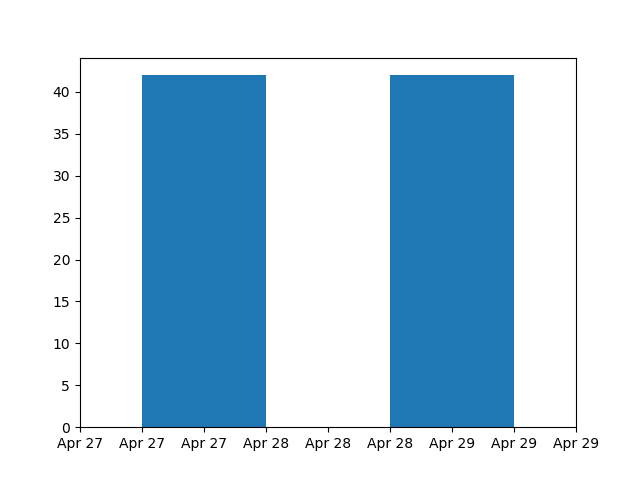
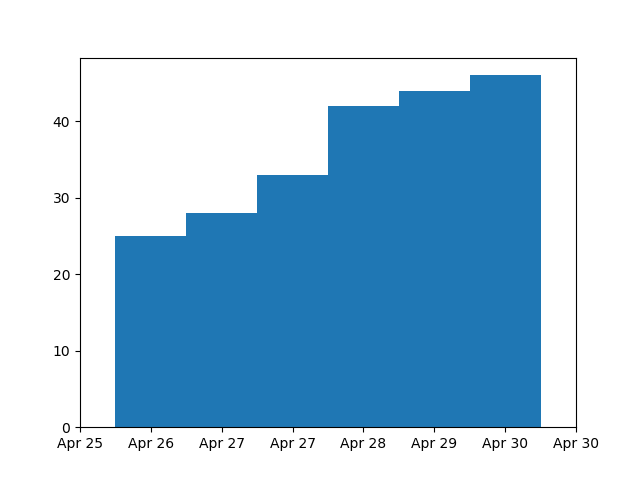
added sample data creation, fixed trackable delete

diff --git a/database/dbtest/test.py b/database/dbtest/test.py
@@ -1,6 +1,10 @@
 from .trackable_test import run_all_trackable_tests
 from database.users import _get_users_col
 from database.utils import DatabaseConsts as dc
+from database.trackable import drop_trackable_collection
+from datetime import datetime, timedelta, date
+from database.users import get_user_wrapper
+from .dbprint import _print_collection
 
 
 def test_all():
@@ -13,17 +17,44 @@ def drop_users():
 def drop_db():
     dc.CLIENT.drop_database(dc.DATABASE_NAME)
 
-def put_sample_data(user_id, trackable):
 
-    start_date = datetime.utcnow() - timedelta(days=7)
+def pretend_to_remind(bot):
+    demo_user_id = 1
+
+    bot.send_message(chat_id=demo_user_id, text='Hey! It\'s time to tell me how you did today')
+    pass
+
+
+def put_sample_data(user_id, trackable):
+    '''
+    creates new trackable for user, 
+    fills it with sample data for last week
+
+    any prev data for this trackable is removed 
+    '''
+
+    user = get_user_wrapper(user_id)
+    
+    drop_trackable_collection(user.name, trackable)
+
+    curr_date = datetime.utcnow() - timedelta(days=7)
 
     vals = [35, 25, 28, 33, 42, 44, 46]
+    
+    user.register_trackable(trackable)
+    tr = user.get_trackable_wrapper(trackable)
 
-    for i in range(8):
-        
-        get_use
+    from database.utils import DatabaseConsts as dc
+    from database.utils import coll
 
-        start_date += timedelta(days=1)
+
+    for i in range(7):
+        tr.add_user_entry(curr_date, vals[i])
+
+        curr_date += timedelta(days=1)
+
+
+    
 
 
 

diff --git a/database/trackable.py b/database/trackable.py
@@ -3,8 +3,11 @@ import pymongo
 from pymongo.collection import Collection 
 from datetime import datetime
 
-def drop_trackable_collection(username, trackable_name):
-    coll(_trackable_coll_name(username, trackable_name)).drop()
+def drop_trackable_collection(id, trackable):
+    '''
+    username is not id, it is the human-readable telegram username!
+    '''
+    coll(_trackable_coll_name(id, trackable)).drop()
 
 class TrackableDbWrapper:
 
@@ -132,12 +135,12 @@ class TrackableDbWrapper:
         } for entry in n_last ]
 
 #region helpers
-def _trackable_coll_name(username, name):
+def _trackable_coll_name(id, name):
     '''
     get's the collection identifier for the user's trackable, 
     distinct from all other user's trackables
     '''
-    return '{0}--{1}'.format(username, name.replace(' ', '_'))
+    return '{0}--{1}'.format(id, name.replace(' ', '_'))
 
 def _get_trackable_metadata_doc(coll_name):
     return coll(coll_name).find_one(_metadata_query())

diff --git a/test.py b/test.py
@@ -1,13 +1,20 @@
 from database.dbtest.test import *
 from database.dbtest.dbprint import *
 from database.users import *
+from database.trackable import drop_trackable_collection
+from database.utils import DatabaseConsts as dc
 
 def main():
-    # print('all users: ')
-    # print_all_users()
-    test_all()
+    print('all users: ')
+    print_all_users()
+    # test_all()
+
+    # dc.CLIENT[dc.DATABASE_NAME]['TheUnicornStripper--sample_trackable'].drop()
+    put_sample_data(382338945, "sample trackable")
     # print_all_colls()
 
+
+    print_all_trackable_entries(382338945)
     # print_all_trackable_entries(get_user_wrapper(382338945))
 
 if __name__ == "__main__":

diff --git a/database/dbtest/dbprint.py b/database/dbtest/dbprint.py
@@ -1,5 +1,6 @@
 from database.utils import DatabaseConsts as dc, coll
 from pymongo.collection import Collection
+from database.users import get_user_wrapper
 
 def print_all_colls():
     db = dc.CLIENT[dc.DATABASE_NAME]
@@ -13,7 +14,9 @@ def print_all_colls():
 def print_all_users():
     _print_collection(dc.CLIENT[dc.DATABASE_NAME][dc.USERS_COLL_NAME])
 
-def print_all_trackable_entries(user):
+def print_all_trackable_entries(id):
+
+    user = get_user_wrapper(id)
     print('User : {0}: '.format(user.name))
 
     for tr in user.trackable_names:

diff --git a/database/users.py b/database/users.py
@@ -95,7 +95,15 @@ class UserDbWrapper:
             raise ValueError('trackable must be registered')
 
         drop_trackable_collection(self.name, name)
+
         self.trackable_names.remove(name)
+        _get_users_col().update_one({
+            'id' : self.id
+            }, {
+                '$set' : {
+                    'trackables' : self.trackable_names
+                }
+            })
 
 #region helpers
 
